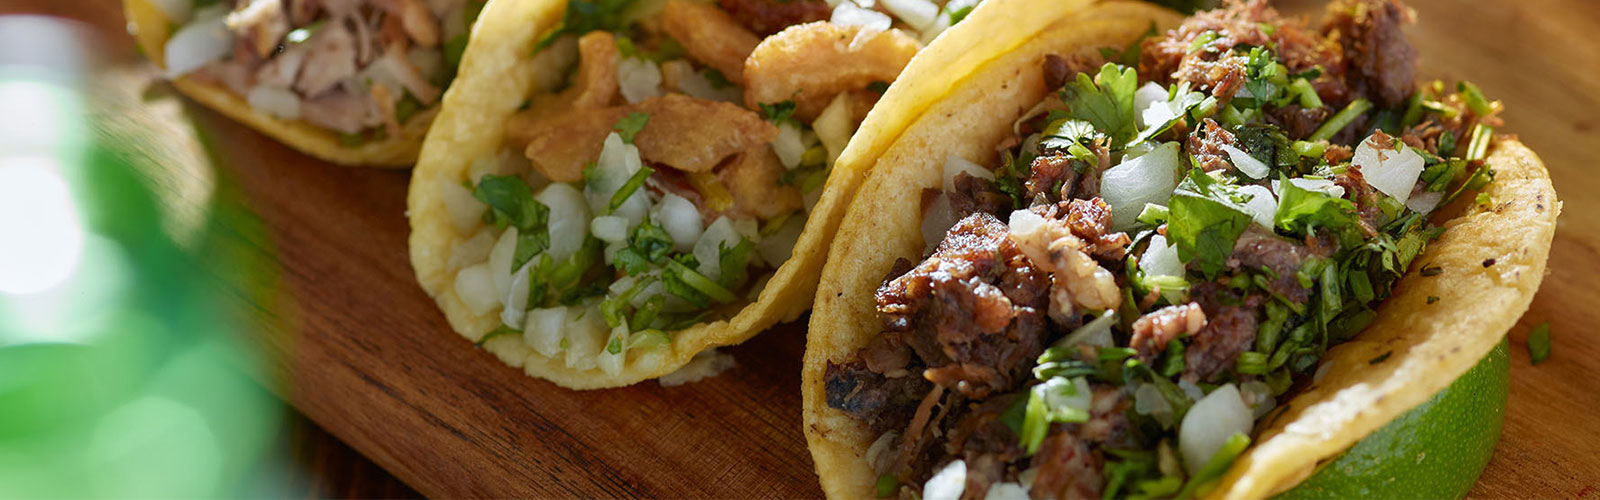
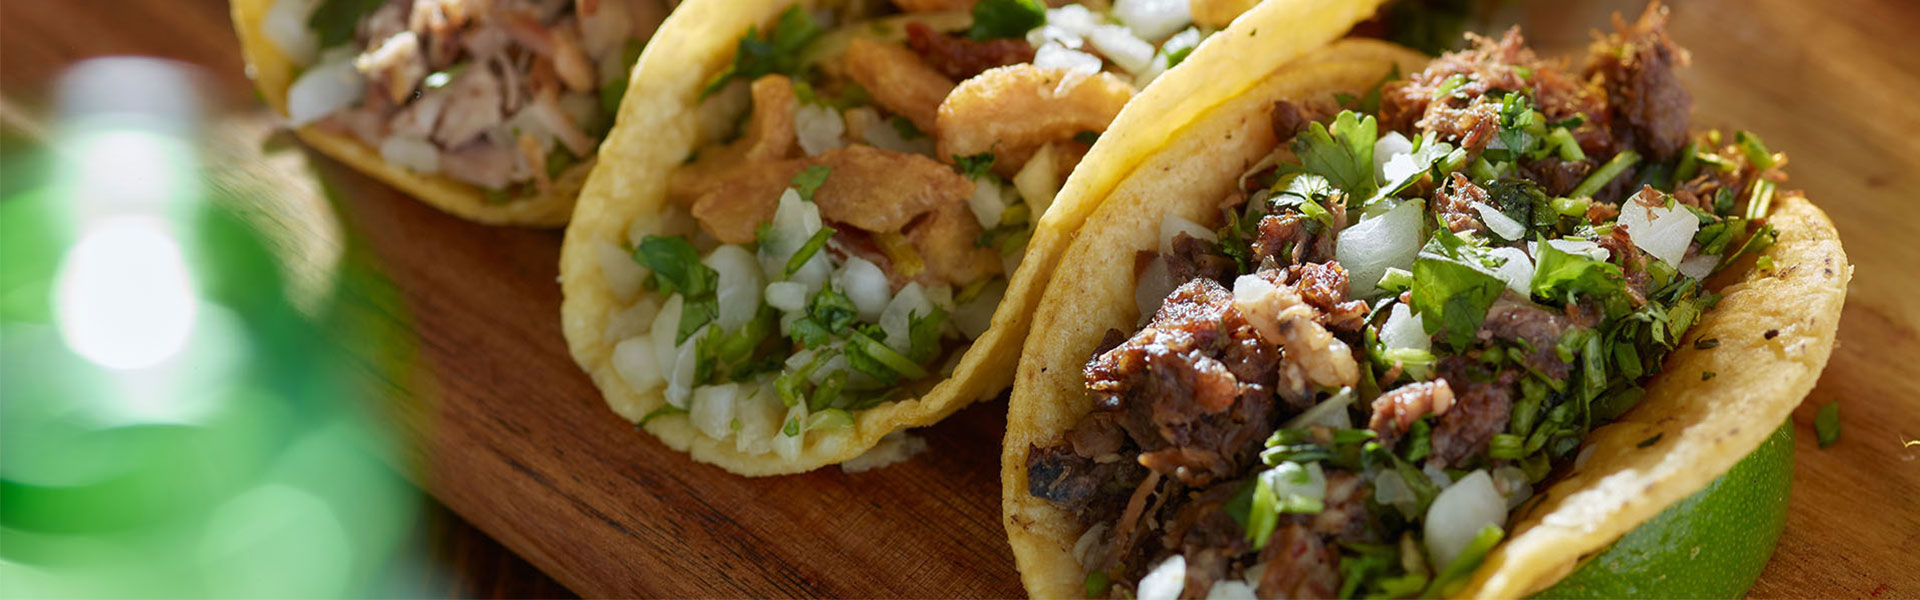
added new slides to carousel. Fixed responsive issues for large screens.

diff --git a/client/src/components/Hero/Hero.js b/client/src/components/Hero/Hero.js
@@ -1,10 +1,12 @@
 import { NavLink } from "react-router-dom";
 import style from "./style.css";
 import { Splide, SplideSlide } from "@splidejs/react-splide";
-import "@splidejs/splide/dist/css/themes/splide-skyblue.min.css";
+import "@splidejs/splide/dist/css/themes/splide-default.min.css";
 import taco1 from "./taco1.jpg";
 import taco2 from "./taco2.jpg";
 import taco3 from "./taco3.jpg";
+import taco4 from "./taco4.jpg";
+import taco5 from "./taco5.jpg";
 
 function Hero({ children }) {
   return (
@@ -23,16 +25,23 @@ function Hero({ children }) {
         autoplay: true,
         autoWidth: true,
         speed: 500,
+        focus: "center",
       }}
     >
       <SplideSlide>
         <img src={taco1} alt="taco shop hero" />
       </SplideSlide>
-      <SplideSlide>
+      {/* <SplideSlide>
         <img src={taco2} alt="taco hero close up" />
       </SplideSlide>
       <SplideSlide>
-        <img src={taco3} alt="taco hero close up" />
+        <img src={taco3} alt="taco hero close up number two" />
+      </SplideSlide> */}
+      <SplideSlide>
+        <img src={taco4} alt="taco hero close up number three" />
+      </SplideSlide>
+      <SplideSlide>
+        <img src={taco5} alt="taco hero close up number four" />
       </SplideSlide>
     </Splide>
   );
